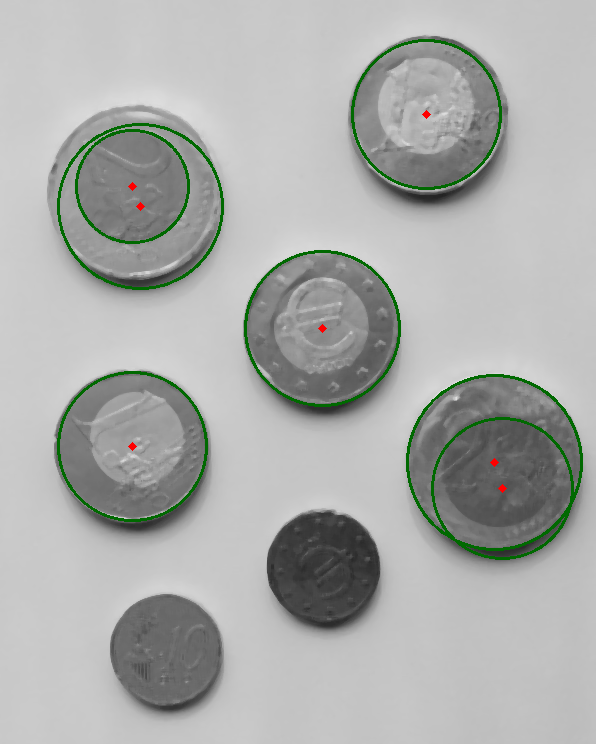
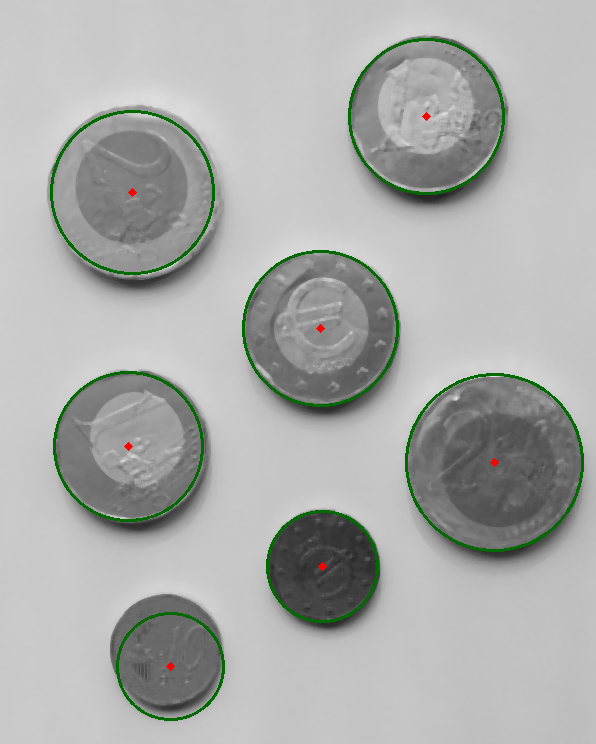
Added convert to JSON

diff --git a/find_coins/main.py b/find_coins/main.py
@@ -2,6 +2,27 @@
 
 import numpy as np
 import cv2 as cv
+import json
+
+
+def toJSON(arr):
+    data = {}
+    data['coins'] = []
+
+    for i in arr[0, :]:
+        data['coins'].append({
+            "pos": {
+                'x': float(i[0]),
+                'y': float(i[1]),
+                'r': float(i[2]),
+            },
+            'worth': None
+        })
+    data['sum'] = 0.0
+    data['number of coins'] = arr.shape[1]
+
+    with open('output_json.json', 'w') as outfile:
+        json.dump(data, outfile, indent=4)
 
 
 def imgRead():
@@ -14,9 +35,8 @@ def imgRead():
 
     # convert to gray colour
     cimg = cv.cvtColor(blurImg, cv.COLOR_GRAY2BGR)
-#    cimg = cv.cvtColor(blurImg, cv.COLOR_BGR2GRAY)
 
-    circles = cv.HoughCircles(blurImg, cv.HOUGH_GRADIENT, 1, 20, param1=90, param2=80, minRadius=0, maxRadius=0)
+    circles = cv.HoughCircles(blurImg, cv.HOUGH_GRADIENT, 1, minDist=50, param1=30, param2=80, minRadius=20, maxRadius=120)
     circles = np.uint16(np.around(circles))
     for i in circles[0, :]:
         # draw the outer circle
@@ -25,9 +45,12 @@ def imgRead():
         cv.circle(cimg, (i[0], i[1]), 2, (0, 0, 255), 3)
 
     cv.imwrite('output.png',cimg)
+    return circles
 
 def main():
-    imgRead()
+
+    circles = imgRead()
+    toJSON(circles)
 
 if __name__ == '__main__':
     main()
